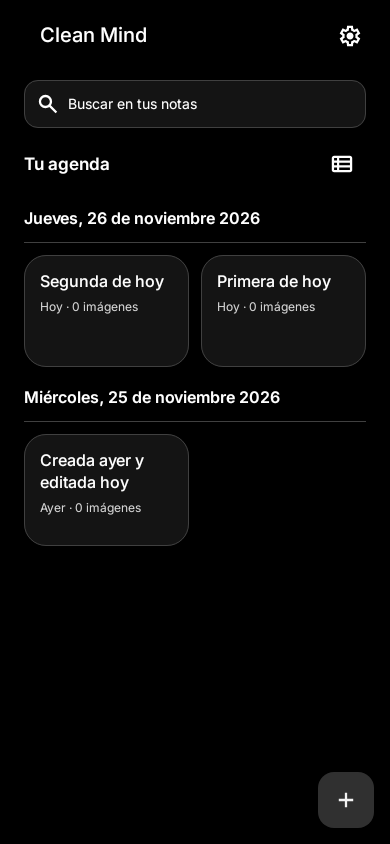
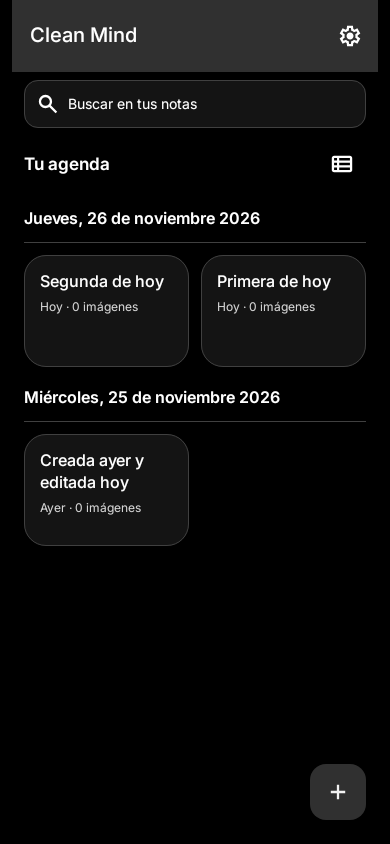
docs: document restored formatting checklist deletion and radial actions

Changed region(s): [[0.0308, 0.0, 0.9846, 0.0924], [0.7692, 0.8934, 0.9846, 0.9858]]

diff --git a/docs/guia-de-uso.md b/docs/guia-de-uso.md
@@ -13,7 +13,7 @@ Clean Mind permite guardar ideas y apuntes personales en Android. No necesitas u
 | Editor | Título, subtítulo opcional, cuerpo de la nota, estado de guardado y acciones. |
 | Ajustes | Selección de apariencia e información sobre almacenamiento y recordatorios. |
 
-El botón flotante **+** despliega encima de sí mismo las acciones Inicio, Notas, Recordar, Buscar, Nueva nota y Nuevo recordatorio. El botón gira a **×** para cerrarlas; Volver también cierra el despliegue sin cambiar de pantalla. Un doble toque en la lupa abre Buscar con el campo enfocado para escribir. La cabecera se oculta al bajar y reaparece al llegar al inicio; el engranaje abre Ajustes.
+El botón flotante **+** despliega seis acciones en dos arcos radiales: Inicio, Notas, Recordar, Buscar, Nueva nota y Nuevo aviso (nuevo recordatorio). El botón gira a **×** para cerrarlas; Volver también cierra el despliegue sin cambiar de pantalla. Un doble toque en la lupa abre Buscar con el campo enfocado para escribir. La cabecera se oculta al bajar y reaparece al llegar al inicio; el engranaje abre Ajustes.
 
 ## Crear una nota
 
@@ -25,7 +25,7 @@ El botón flotante **+** despliega encima de sí mismo las acciones Inicio, Nota
 
 También puedes crear la primera nota desde el botón del estado vacío.
 
-El editor guarda después de aproximadamente 600 ms sin nuevos cambios. Si vuelves con cambios válidos pendientes, intenta guardarlos antes de cerrar. La acción **Aa · Selecciona texto para dar formato** muestra las herramientas del editor normal.
+El editor guarda después de aproximadamente 600 ms sin nuevos cambios. Si vuelves con cambios válidos pendientes, intenta guardarlos antes de cerrar. La barra de formato muestra directamente negrita, cursiva, subrayado y listas; **Más formato y espaciado** abre el panel completo del editor normal.
 
 ## Entender el guardado
 
@@ -55,7 +55,7 @@ La elección de vista pertenece al estado de cada pestaña. No hay un ajuste glo
 
 ## Crear un recordatorio
 
-1. Pulsa **+ → Nuevo recordatorio**.
+1. Pulsa **+ → Nuevo aviso**.
 2. Escribe **¿Qué quieres recordar?**.
 3. Activa **Avisarme** y elige la fecha y la hora, o desactívalo para guardar un pendiente sin notificación.
 4. Añade un detalle opcional y pulsa **Guardar recordatorio**.
@@ -127,18 +127,11 @@ El historial de pruebas físicas está en [Pruebas](pruebas.md). Consulta la rev
 
 ## Formato y fotografías
 
-Pulsa **Aa · Selecciona texto para dar formato** en el editor para mostrar la fila **H₁, H₂, Aa, negrita, cursiva, subrayado y borrar formato**. La **×** cierra esa fila. Las opciones de tachado, alineación, sangría y espaciado están en **⋮ → Formato y espaciado**. Selecciona una palabra o un fragmento antes de cambiarlo. Sin selección, el formato se aplica al párrafo actual cuando contiene texto.
+La fila de formato permanece visible sobre el teclado. Muestra negrita, cursiva, subrayado y listas; deslízala horizontalmente para acceder a las demás herramientas. **Más formato y espaciado** abre un único panel con tamaños H1–H6 y Normal, estilos, listas, alineación, sangría e interlineado y espacios. Los ajustes de espaciado afectan a toda la nota. Se mantiene el editor visual normal, con selección de texto y sin escribir sintaxis Markdown.
 
-- Negrita, cursiva, subrayado y tachado. Los colores siguen el tema de la app.
-- Tamaños de título, subtítulo y texto normal.
-- Alineación izquierda, centro o derecha y sangría.
-- Listas con viñetas o numeradas sobre las líneas seleccionadas.
-- **Casilla**: añade una casilla al párrafo del cursor; vuelve a pulsar para marcarla o desmarcarla.
-- Interlineado de 1 a 2, espacio adicional entre líneas y separación entre párrafos. Estos ajustes de espaciado afectan a toda la nota.
-- **Sin formato** elimina las marcas del fragmento seleccionado; no restablece los ajustes globales de espaciado.
-- **Deshacer/Rehacer** funciona durante la sesión del editor; el historial no se guarda al cerrar.
+Cada casilla de la lista tiene una **×** a la derecha para eliminarla, esté vacía, escrita o marcada. El aviso **Casilla eliminada · Deshacer** permite recuperarla con su contenido, estado y posición. La eliminación no cambia el cuerpo ni el resto de la lista.
 
-En **+**, **Añadir imagen** abre el selector y **Hacer foto** permite tomar una fotografía con una aplicación de cámara instalada. **Pegar imagen** y el menú nativo de pegado aceptan imágenes que el portapapeles exponga mediante una URI accesible. No descargan enlaces web como imágenes.
+**Imagen** ofrece elegir una fotografía, hacerla con una cámara instalada o pegar una imagen que el portapapeles exponga mediante una URI accesible.
 
 Las imágenes se copian como JPEG privados de la app, con reducción de resolución y corrección de orientación EXIF. Aparecen después del texto y las casillas y pueden quitarse o moverse hacia arriba desde su menú **⋮**. Quitar un adjunto de una nota no borra la fotografía original de la galería. Los archivos privados que queden sin referencia todavía no tienen limpieza automática.
 

diff --git a/docs/pruebas.md b/docs/pruebas.md
@@ -47,9 +47,9 @@ Los filtros mostrados corresponden a las clases presentes en el repositorio.
 | `MarkdownCompatibilityTest` | 5 | Documentos normales sin cambios, lectura de documentos Markdown como texto con formato conservando metadatos y destinos de enlaces, estilos/tablas/tareas anteriores, HTML literal y texto legible para buscar/compartir. |
 | `ExampleUnitTest` | 1 | Prueba aritmética de ejemplo del proyecto; no valida funcionalidad de Clean Mind. |
 | `ReminderExportTest` | 5 | Repetición y serialización, programación/recuperación/cancelación de alarmas, TXT UTF-8 y paginación visual de exportación. |
-| `DesignUiTest` | 19 | Capturas locales, privacidad de previews, compartir con pulsación larga, búsqueda/cuadrícula, concentración, completado, ajustes, selección de fecha/hora y formulario independiente con confirmación al descartar y filtrado/movimiento de notas entre carpetas y exclusión de Volver en destinos ocultos, carpetas en cuadrícula y ausencia de búsqueda en Notas y botones del editor sin palabras partidas ni truncadas a 320 dp con fuente 1.35; ocultación al descender, permanencia oculta al invertir el scroll a mitad de la lista y reapertura al llegar al inicio, conservando los límites del contenido fuera de las barras. |
+| `DesignUiTest` | 20 | Capturas locales, privacidad de previews, compartir con pulsación larga, búsqueda/cuadrícula, concentración, completado, ajustes, selección de fecha/hora y formulario independiente con confirmación al descartar y filtrado/movimiento de notas entre carpetas y exclusión de Volver en destinos ocultos, carpetas en cuadrícula y ausencia de búsqueda en Notas y botones del editor sin palabras partidas ni truncadas a 320 dp con fuente 1.35; ocultación al descender, permanencia oculta al invertir el scroll a mitad de la lista y reapertura al llegar al inicio, conservando los límites del contenido fuera de las barras. |
 
-Total actual: **79 pruebas locales**, de las cuales una es el ejemplo aritmético original. Esta cifra describe la suite actual y debe revisarse al añadir o retirar casos; no es un porcentaje de cobertura de código.
+Total actual: **80 pruebas locales**, de las cuales una es el ejemplo aritmético original. Esta cifra describe la suite actual y debe revisarse al añadir o retirar casos; no es un porcentaje de cobertura de código.
 
 Las pruebas de ViewModel usan `kotlinx-coroutines-test` para controlar la ejecución y el tiempo virtual. `FakeNoteRepository` permite simular lentitud, errores y cambios observables.
 
@@ -200,3 +200,12 @@ El FAB presenta sus seis acciones en la propia pantalla. La regresión comprueba
 La regresión de Home usa ahora un ancho de 360 dp, el ancho lógico del realme (1080 px y 480 dpi), y verifica con coordenadas la distribución en dos columnas y el cambio real a una columna. El tamaño anterior de celda de 156 dp solo permitía una columna en ese dispositivo; pasa a 128 dp.
 
 Resultado: **79 pruebas locales superadas**, sin fallos ni omisiones; compilaciones debug/release y lint de ambas variantes correctos. Se instaló el APK en el realme RMX3370 mediante USB y se verificaron la cuadrícula (tarjetas de 450 px) frente a agenda (936 px), el despliegue anclado al FAB, su cierre con Volver, la creación de un borrador vacío con editor normal, la apertura del formato visual y el foco de búsqueda con doble toque. El borrador se cerró sin contenido. La comparación de las 12 notas y la carpeta antes y después confirmó que todos sus campos permanecen idénticos. Las capturas del repositorio siguen siendo sintéticas; las capturas privadas del teléfono no se publican.
+
+
+## Menú de formato, eliminación de casillas y FAB radial
+
+La fila visible y el panel único se restauran sobre el editor normal. La regresión comprueba la disponibilidad directa de negrita y del panel con H6, sin controles Markdown. La prueba de casillas elimina una fila normal, la recupera con deshacer y elimina filas marcadas y vacías, conservando cuerpo, rangos y metadatos.
+
+La prueba del FAB usa 320 dp de ancho, comprueba los radios de 108 y 216 dp, la ausencia de solapamientos entre los seis objetivos táctiles y la posición estable del botón principal. Se mantienen navegación, ambas opciones de creación, cierre con Volver y foco de búsqueda con doble toque.
+
+Resultado: **80 pruebas locales superadas**, sin fallos ni omisiones; compilaciones debug/release y lint de ambas variantes correctos. El formateador revisó 98 archivos. En el realme RMX3370 se comprobó la distribución radial sin solapamientos, la aplicación y persistencia de negrita en el cuerpo normal, el panel nuevo con H6 y la eliminación de casillas marcadas y vacías. Deshacer recuperó sus identificadores y estado; eliminar todas conservó el cuerpo y la negrita. Se eliminó la nota exclusiva de prueba y la comparación de las 12 notas originales y la carpeta confirmó todos sus campos intactos. Las imágenes del repositorio son capturas sintéticas.

diff --git a/docs/arquitectura.md b/docs/arquitectura.md
@@ -164,7 +164,7 @@ La revisión arquitectónica del 23 de noviembre de 2026 utilizó estas fuentes 
 
 ## Editor enriquecido
 
-El cuerpo del editor integra `RichNoteEditor`, un EditText nativo dentro de Compose para mantener selección y menú de copiar/pegar. `NoteDocument` es el formato serializable sin dependencia de Android; los spans nativos se convierten a rangos de formato al editar. `RichEditorContent` integra el campo nativo; `RichEditorController` conserva exclusivamente estado de UI (selección, historial disponible y resultados de galería/cámara). `EditorBottomBar` presenta las herramientas de formato, inserción y espaciado; `NoteImageStrip` presenta los adjuntos. El documento sigue siendo propiedad del ViewModel y todas las modificaciones viajan por `EnteredContent`. `NoteImages` encapsula la copia y normalización de los archivos en el almacenamiento privado. La nota resultante continúa pasando por el evento de contenido y el autoguardado del ViewModel.
+El cuerpo del editor integra `RichNoteEditor`, un EditText nativo dentro de Compose para mantener selección y menú de copiar/pegar. `NoteDocument` es el formato serializable sin dependencia de Android; los spans nativos se convierten a rangos de formato al editar. `RichEditorContent` integra el campo nativo; `RichEditorController` conserva exclusivamente estado de UI (selección, historial disponible y resultados de galería/cámara). `RichFormatBar` mantiene las herramientas frecuentes visibles y abre un único panel de formato y espaciado; `NoteImageStrip` presenta los adjuntos. El documento sigue siendo propiedad del ViewModel y todas las modificaciones viajan por `EnteredContent`. `NoteImages` encapsula la copia y normalización de los archivos en el almacenamiento privado. La nota resultante continúa pasando por el evento de contenido y el autoguardado del ViewModel.
 
 
 ## Avisos y exportaciones
@@ -190,4 +190,6 @@ La pantalla vuelve al editor normal con `RichNoteEditor` y `EditorToolbar`. `Ric
 
 `MarkdownText` y `MarkdownRendering` permanecen únicamente como lectores para búsqueda, exportación y compatibilidad. No hay edición de sintaxis, vista previa ni comandos Markdown en la interfaz. Se retiró `MarkdownEditing`. El esquema Room continúa en versión 4.
 
-`NotebookFab` despliega acciones sobre el propio botón, en la misma composición y sin `ModalBottomSheet`. Su altura disponible limita el despliegue y las acciones pueden desplazarse. Volver cierra el menú antes de navegar. `HomeAgenda` utiliza celdas adaptables de 128 dp para que la cuadrícula tenga dos columnas a 320–360 dp, además de conservar estados independientes y separadores por creación.
+`NotebookFab` presenta dos arcos radiales concéntricos de tres acciones a 108 y 216 dp del centro del botón. Los objetivos táctiles circulares de 72 dp quedan separados incluso a 320 dp de ancho. La expansión anima la distancia, la escala y la opacidad; el botón permanece anclado. Volver cierra el menú antes de navegar. `HomeAgenda` conserva sus celdas adaptables de 128 dp y los estados independientes de cuadrícula y agenda.
+
+`EditNoteScreen` permite eliminar casillas por identificador. El aviso de deshacer reinserta la misma casilla en su posición, conservando las modificaciones posteriores de las demás. Un nuevo borrado sustituye el aviso anterior. Las operaciones siguen el evento de contenido y el autoguardado habitual del ViewModel.

diff --git a/docs/glass-ui.md b/docs/glass-ui.md
@@ -10,7 +10,7 @@ Las cabeceras conservan el fondo opaco del tema para impedir superposiciones. En
 
 El contenido del cuaderno aplica el padding medido por `Scaffold` y consume esos insets antes de componer listas, cuadrículas y recordatorios. Ese espacio se adapta a la altura visible de la cabecera y mantiene el viewport fuera de las barras. La franja de estado continúa protegida por el color del tema. La fecha de cada grupo conserva su semántica de encabezado y utiliza 16 sp y peso seminegrita.
 
-La navegación se concentra ahora en `NotebookFab`: un botón flotante Material 3 despliega sus acciones encima del propio botón, sin abrir una hoja. No hay barra inferior en la libreta. Las listas reservan 96 dp al final para mantener las últimas tarjetas fuera del botón; el editor conserva sus herramientas inferiores.
+La navegación se concentra ahora en `NotebookFab`: un botón flotante Material 3 despliega sus acciones en dos arcos radiales alrededor del propio botón, sin abrir una hoja. No hay barra inferior en la libreta. Las listas reservan 96 dp al final para mantener las últimas tarjetas fuera del botón; el editor conserva sus herramientas inferiores.
 
 Todas las hojas inferiores de la app pasan por `AppBottomSheet`. El propio `ModalBottomSheet` pinta su contenedor, incluida la separación de navegación del sistema. Así no queda una franja transparente que deje ver la barra de la app por debajo. Se conserva el manejo de insets de Material 3 y se desactiva el scrim adicional de contraste de navegación en la ventana de la hoja desde API 29.
 

diff --git a/docs/cambios-clean-mind.md b/docs/cambios-clean-mind.md
@@ -43,3 +43,8 @@ Los seis puntos se implementaron por orden numérico y con commits por funcional
 ## Corrección posterior: editor y acciones flotantes
 
 Se restaura el editor normal anterior, manteniendo lectura de notas guardadas en Markdown sin reescribirlas al abrir. El FAB despliega sus seis acciones encima del mismo botón, con cierre desde × o Volver. La cuadrícula de Home baja su celda mínima de 156 a 128 dp para mostrar dos columnas en el realme de 360 dp; conserva el modo agenda de una columna. Las pruebas locales quedan en 79 casos y pasan las compilaciones debug/release y lint de ambas variantes.
+
+
+## Menú moderno, eliminación de casillas y FAB radial
+
+El editor normal conserva de nuevo la barra visible y el panel único de formato, sin volver al editor de sintaxis. Cada casilla se puede eliminar desde su × y recuperar desde Deshacer. El FAB presenta sus seis acciones en dos arcos radiales concéntricos, con animación y controles sin solapamiento a 320 dp. Se mantienen la cuadrícula de Inicio y los cambios anteriores de compatibilidad de documentos.

diff --git a/docs/figma-ui.md b/docs/figma-ui.md
@@ -86,3 +86,8 @@ Se implementaron en orden numérico: limpieza de pantallas/recursos sin uso, FAB
 ## Corrección tras revisar «To Dos»
 
 Se restaura el editor normal y su formato visual. La compatibilidad de lectura conserva las notas guardadas en Markdown, sin mantener su editor de sintaxis. El FAB despliega seis acciones ancladas encima del botón y Volver cierra el despliegue. La celda mínima de Home pasa de 156 a 128 dp: en los 360 dp del realme la vista de cuadrícula muestra dos columnas y el modo agenda una, manteniendo las fechas de creación.
+
+
+## Formato conservado, casillas y FAB radial
+
+Se recuperan la fila visible de formato y el panel único, aplicados al editor normal. Cada casilla incorpora eliminación y deshacer. El FAB pasa a dos arcos radiales de tres acciones, con controles circulares y animación desde el centro del botón; conserva navegación, creación, cierre y doble toque de búsqueda. Estas adaptaciones son posteriores a la referencia Figma.

diff --git a/README.md b/README.md
@@ -8,8 +8,9 @@ La interfaz está construida con Jetpack Compose y Material 3. La arquitectura u
 
 - Crear, editar y eliminar notas con formato visual, listas, imágenes y deshacer/rehacer.
 - Guardar automáticamente mientras escribes y mostrar el estado de guardado.
+- Eliminar casillas y recuperarlas con Deshacer; herramientas visibles y un panel único de formato.
 - Consultar la actividad por fecha o cambiar a una cuadrícula adaptable.
-- Navegar y crear desde las opciones que se despliegan sobre el propio FAB; doble toque en la lupa para buscar directamente por título y contenido.
+- Navegar y crear desde las opciones radiales del FAB; doble toque en la lupa para buscar directamente por título y contenido.
 - Organizar notas en [carpetas](docs/carpetas.md) en cuadrícula, con creación, renombrado y movimiento.
 - Crear recordatorios con formulario propio de tarea, fecha y hora y guardado explícito.
 - Compartir texto mediante el selector de aplicaciones de Android.
